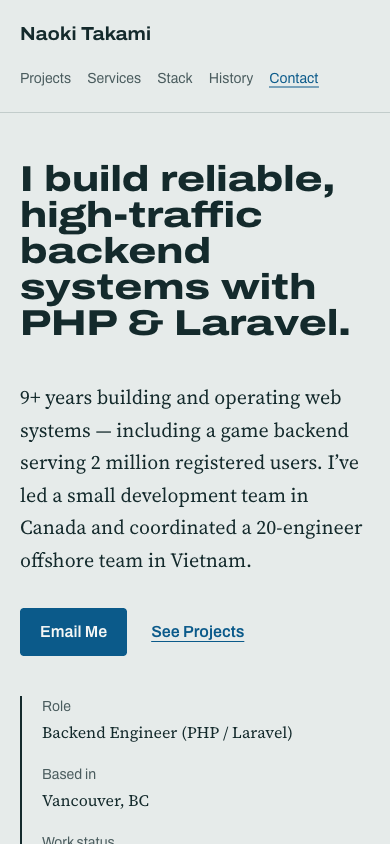
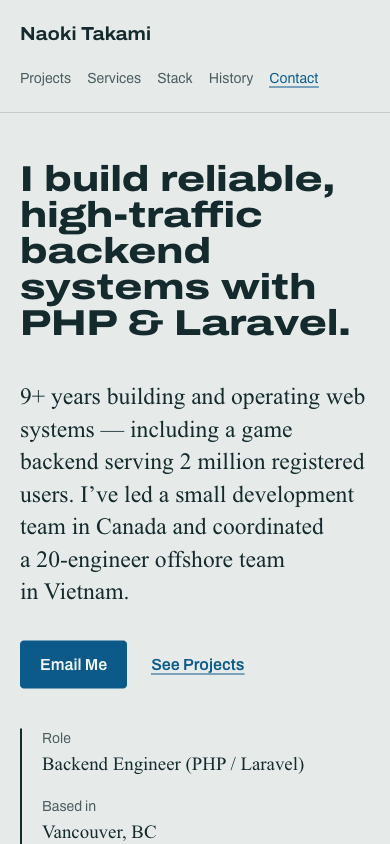
v3: Georgia for body text, Archivo display optional (Perf 99, first-visit CLS 0)
Claude-Session: https://claude.ai/code/session_01RZjUzP3k6dcpFmdiMm1oMb

Changed region(s): [[0.0308, 0.4621, 0.9538, 1.0], [0.3692, 0.7393, 0.6462, 0.8009], [0.6154, 0.8626, 0.8, 0.9242]]

diff --git a/src/app/layout.tsx b/src/app/layout.tsx
@@ -1,19 +1,12 @@
 import type { Metadata, Viewport } from "next";
-import { Archivo, Source_Serif_4 } from "next/font/google";
+import { Archivo } from "next/font/google";
 import "./globals.css";
 
 const archivo = Archivo({
   subsets: ["latin"],
   axes: ["wdth"],
   variable: "--font-archivo",
-});
-
-const sourceSerif = Source_Serif_4({
-  subsets: ["latin"],
-  axes: ["opsz"],
-  style: ["normal", "italic"],
-  variable: "--font-source-serif",
-  preload: false,
+  display: "optional",
 });
 
 export const metadata: Metadata = {
@@ -27,7 +20,7 @@ export const viewport: Viewport = {
 
 export default function RootLayout({ children }: LayoutProps<"/">) {
   return (
-    <html lang="en" className={`${archivo.variable} ${sourceSerif.variable} motion-safe:scroll-smooth`}>
+    <html lang="en" className={`${archivo.variable} motion-safe:scroll-smooth`}>
       <body className="min-h-full bg-fog font-serif text-cedar antialiased">{children}</body>
     </html>
   );

diff --git a/src/app/globals.css b/src/app/globals.css
@@ -3,7 +3,7 @@
 /* Fonts are loaded with next/font in layout.tsx and exposed as CSS variables. */
 @theme inline {
   --font-display: var(--font-archivo), ui-sans-serif, system-ui, sans-serif;
-  --font-serif: var(--font-source-serif), ui-serif, Georgia, serif;
+  --font-serif: Georgia, serif;
 }
 
 /* "Burrard fog" palette */

diff --git a/docs/BUILD_LOG.md b/docs/BUILD_LOG.md
@@ -220,6 +220,17 @@ Screenshots: `docs/screenshots/review/after-*.png`
   Neither the Lighthouse score alone nor my visual check flagged this; the skill measured it.
   Screenshots: `docs/screenshots/review/mobile-390-hero-fallback-fonts.png` vs `mobile-390-hero-webfonts.png`.
 
+- **Fix attempt 1: `display: "optional"` on both fonts.** Lighthouse didn't change (its simulated throttling
+  loads fonts instantly from localhost, so the swap never happens there; it reported CLS 0 all along).
+  Re-checked with design-review under real slow-4G throttling: first-visit CLS **0.216 → 0** (3/3 runs).
+  But the review found a new problem: with `preload: false` + `optional`, the body font missed its ~100 ms window
+  even on a fast connection, so **first-time visitors never saw Source Serif 4**, and most portfolio visitors are first-time visitors.
+- **Fix attempt 2 (final): drop Source Serif 4 and use Georgia for body text.** It looks the same on every visit,
+  downloads nothing for body text, and the expanded Archivo headline keeps the visual identity
+  (preloaded, `display: "optional"`, so no layout shift).
+- **Final result:** Lighthouse mobile Performance **71 → 99**, A11y / BP / SEO 100. Preloaded fonts 3 → 1.
+  First-visit CLS 0 on slow 4G (measured by design-review).
+
 ## Takeaways
 
 _TODO — 3 bullets max. e.g. "Public skills cost +N min and fixed X a11y issues; my own review skill caught Y layout bugs they missed."_
